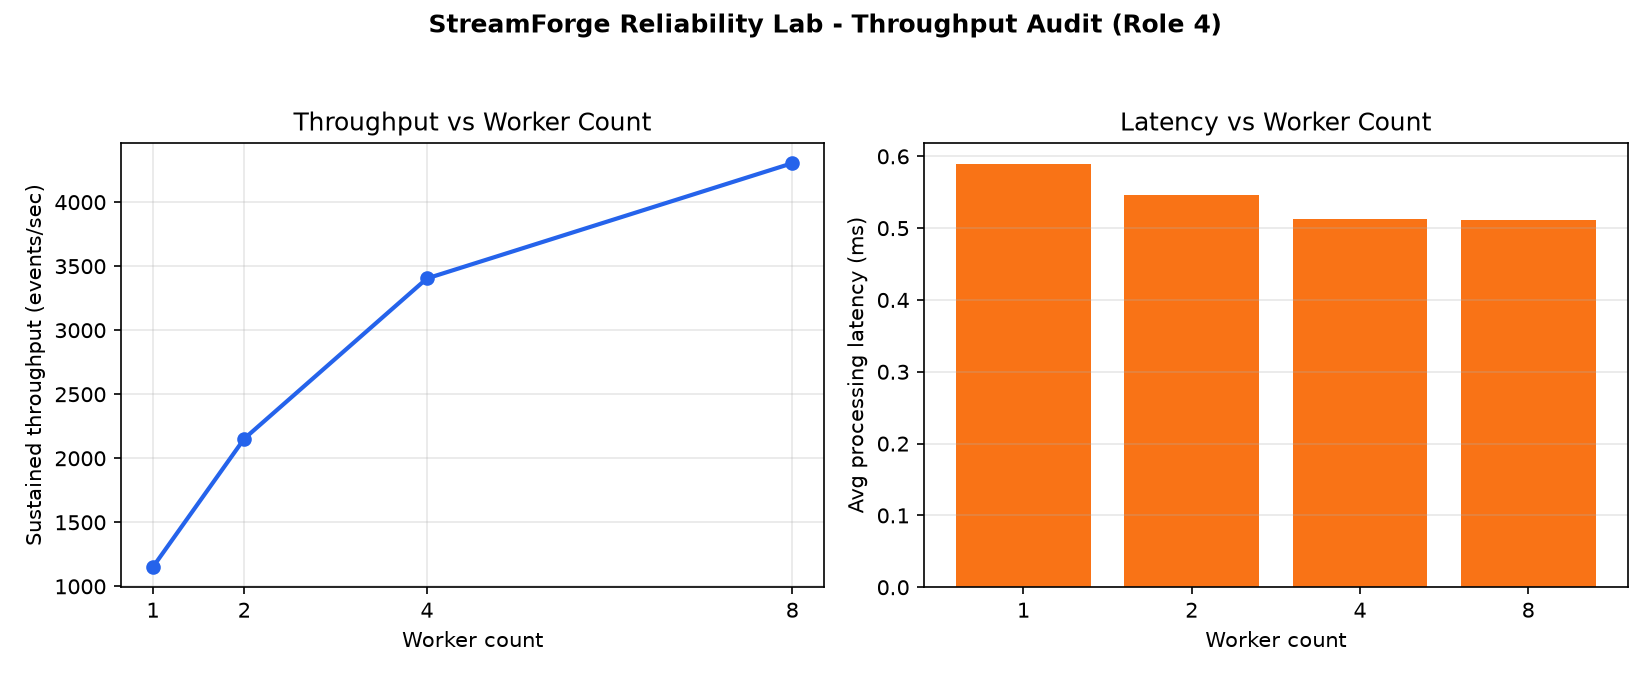
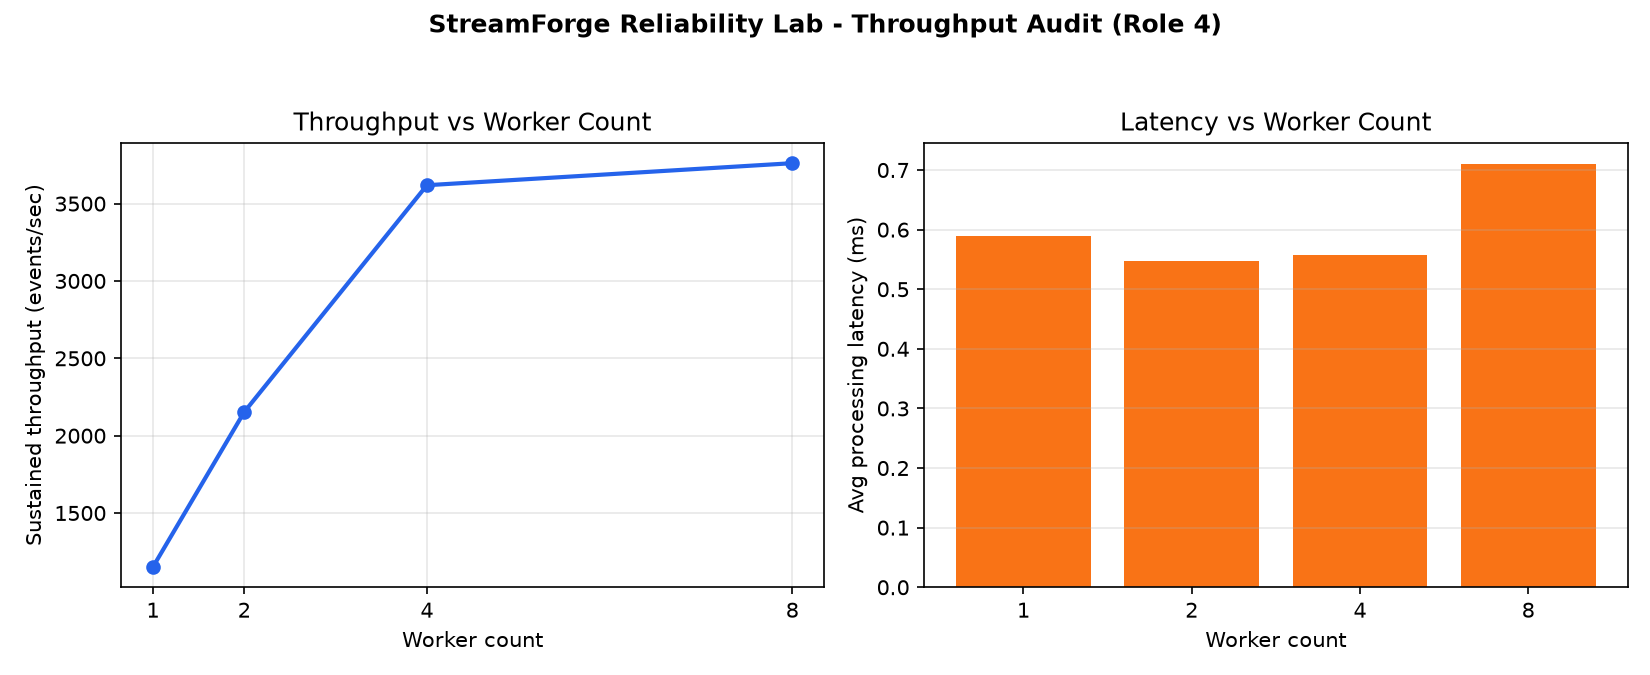
Add multi-worker throughput audit (1/2/4/8) with scaling analysis

diff --git a/audit_report.md b/audit_report.md
@@ -1,11 +1,11 @@
 # StreamForge Throughput Audit
 
-- Run at: 2026-08-22T22:47:09
+- Run at: 2026-09-02T17:32:30
 - Worker count: 8
-- Events accepted: 5,000
+- Events accepted: 500,000
 - Events rejected: 0
-- Total wall time: 1.16s
-- Sustained throughput: 4,304.20 events/sec
-- Avg processing latency: 0.511 ms
-- p95 latency (bucket): 0.001s
+- Total wall time: 155.36s
+- Sustained throughput: 3,218.40 events/sec
+- Avg processing latency: 0.909 ms
+- p95 latency (bucket): 0.005s
 - Workers alive at end: 8/8
